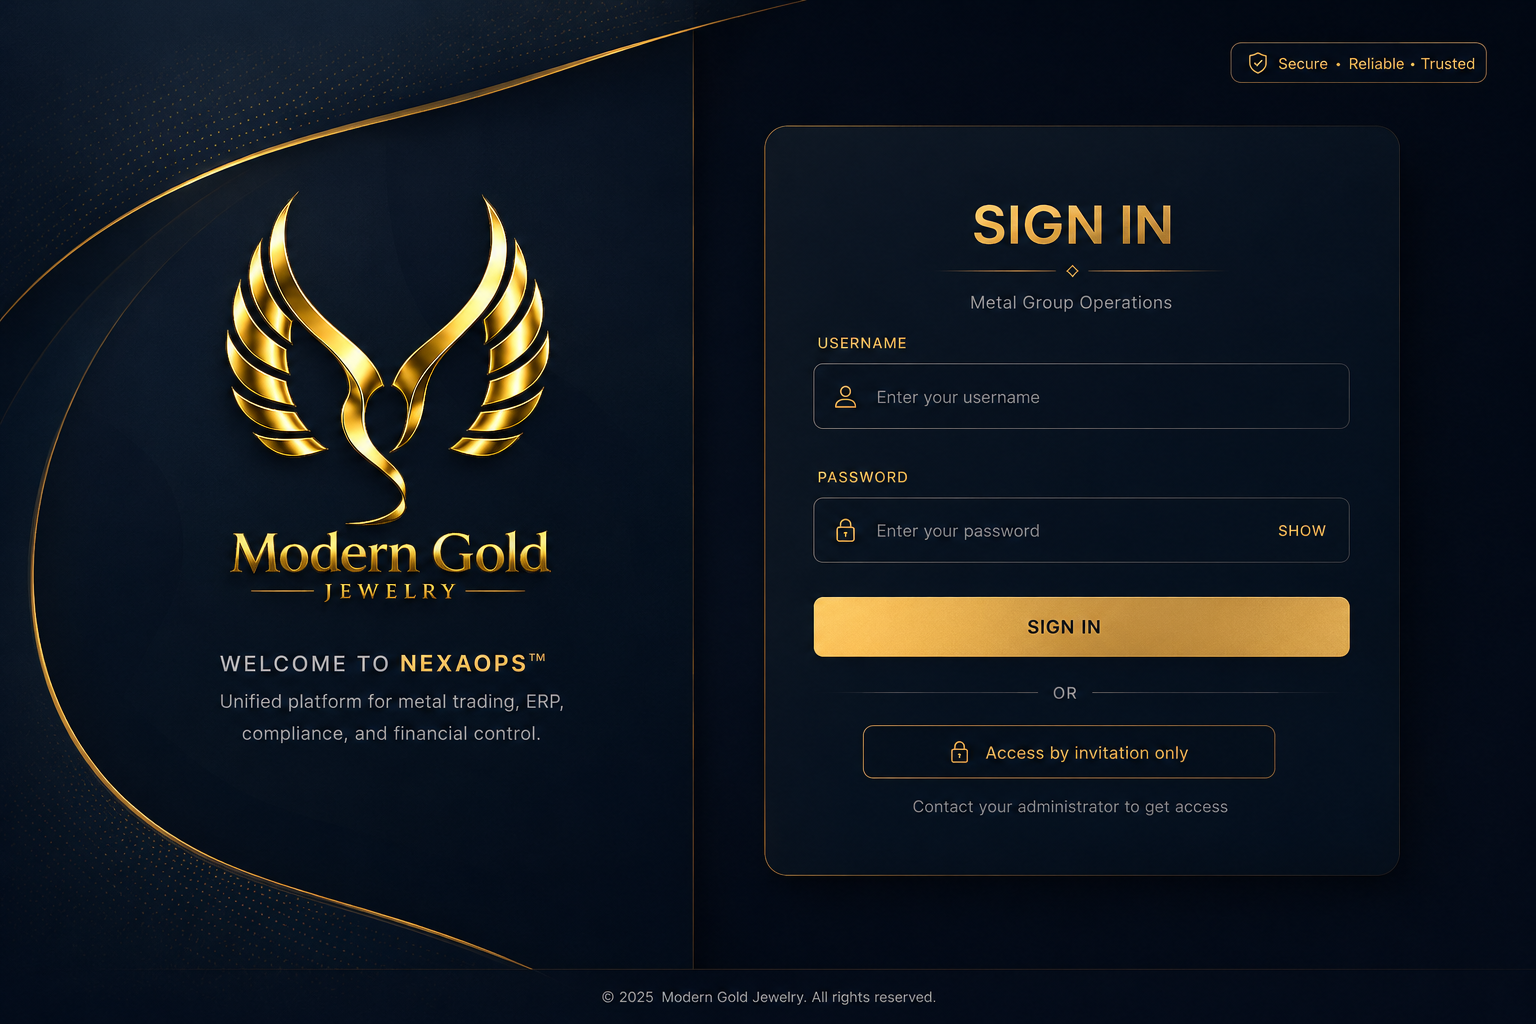
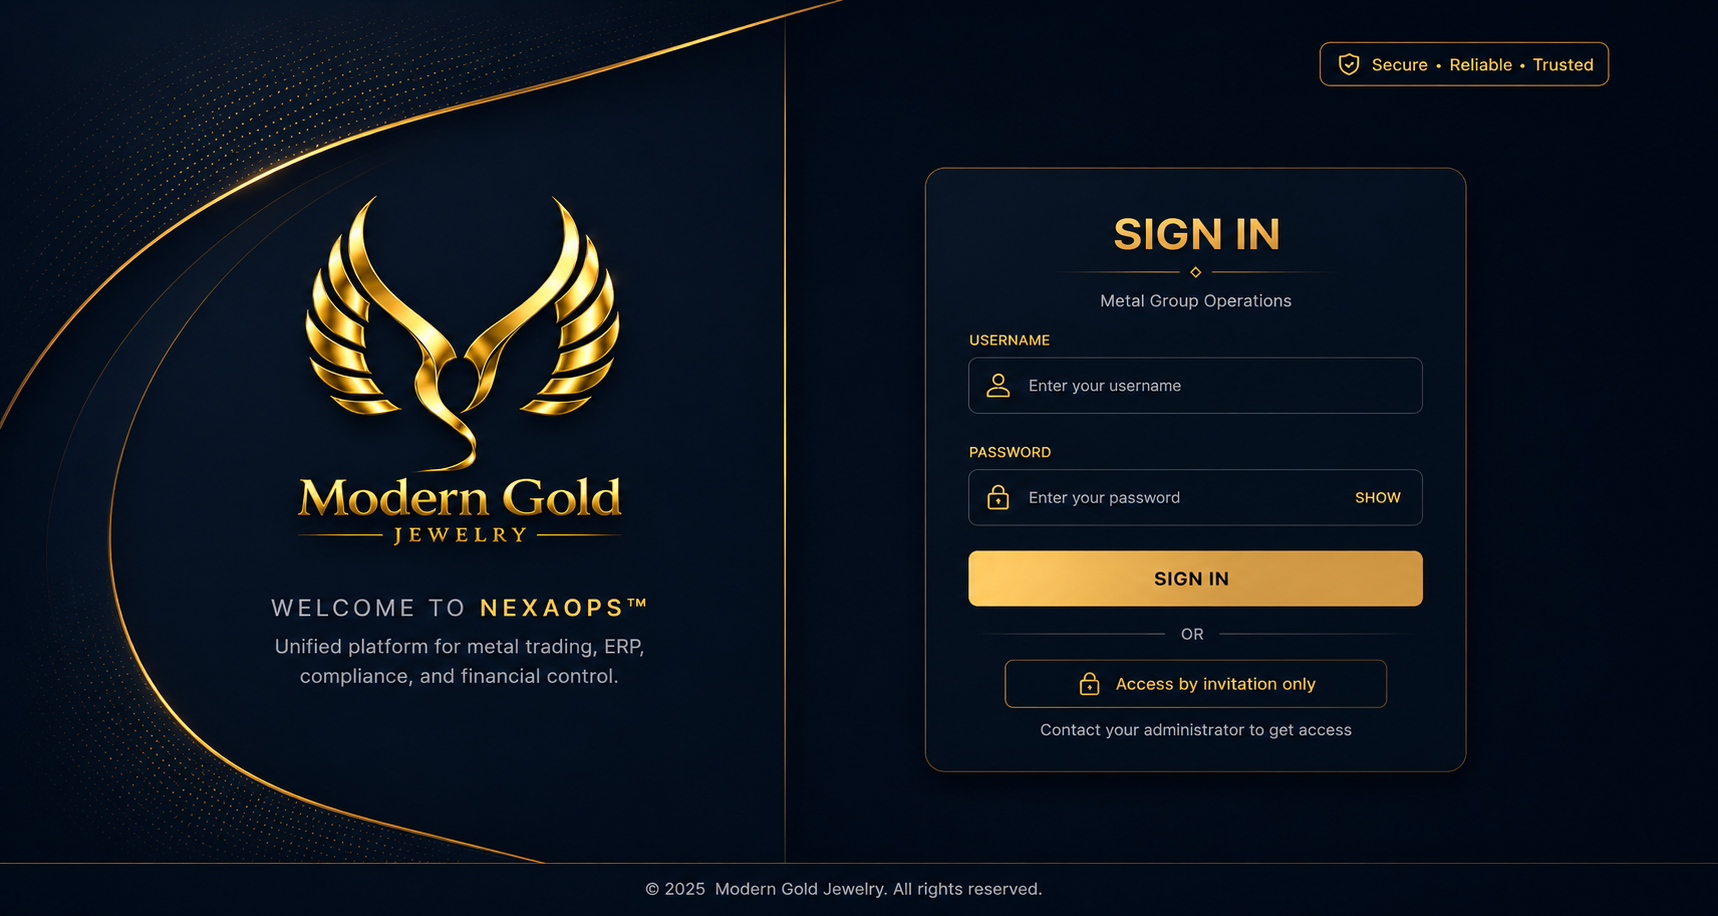
Update MG login and vendor attachments

diff --git a/frontend/src/pages/Login.jsx b/frontend/src/pages/Login.jsx
@@ -63,18 +63,21 @@ function MgLoginShell({
     return () => window.removeEventListener('resize', updateViewport)
   }, [])
 
-  const designWidth = 1600
-  const designHeight = 1000
-  const scale = Math.min(viewport.width / designWidth, viewport.height / designHeight)
-  const stageLeft = (viewport.width - designWidth * scale) / 2
-  const stageTop = (viewport.height - designHeight * scale) / 2
+  const designWidth = 1718
+  const designHeight = 916
+  const scaleX = viewport.width / designWidth
+  const scaleY = viewport.height / designHeight
+  const sx = (value) => value * scaleX
+  const sy = (value) => value * scaleY
 
   return (
     <div
       className="mg-login-shell"
       style={{
+        position: 'fixed',
+        inset: 0,
+        width: '100vw',
         height: '100vh',
-        position: 'relative',
         overflow: 'hidden',
         background:
           'radial-gradient(circle at 22% 42%, rgba(31, 54, 77, 0.62), transparent 26%), radial-gradient(circle at 78% 18%, rgba(25, 55, 86, 0.36), transparent 30%), linear-gradient(135deg, #0b1b2b 0%, #020814 58%, #00040b 100%)',
@@ -86,15 +89,13 @@ function MgLoginShell({
         className="mg-login-stage"
         style={{
           position: 'absolute',
-          left: stageLeft,
-          top: stageTop,
-          width: designWidth,
-          height: designHeight,
-          transform: `scale(${scale})`,
-          transformOrigin: 'top left',
+          inset: 0,
+          width: '100%',
+          height: '100%',
           overflow: 'hidden',
           backgroundImage: 'url(/images/mg-login-reference.png)',
           backgroundSize: '100% 100%',
+          backgroundPosition: 'center center',
           backgroundRepeat: 'no-repeat',
         }}
       >
@@ -103,10 +104,10 @@ function MgLoginShell({
             <div
               style={{
                 position: 'absolute',
-                left: 847,
-                top: 345,
-                width: 558,
-                minHeight: 30,
+                left: sx(968),
+                top: sy(318),
+                width: sx(455),
+                minHeight: sy(30),
                 border: '1px solid rgba(248,113,113,0.55)',
                 background: 'rgba(127,29,29,0.72)',
                 color: '#FECACA',
@@ -123,10 +124,10 @@ function MgLoginShell({
               aria-hidden="true"
               style={{
                 ...valueMaskStyle,
-                left: 907,
-                top: 368,
-                width: 345,
-                height: 44,
+                left: sx(1026),
+                top: sy(372),
+                width: sx(300),
+                height: sy(34),
               }}
             />
           )}
@@ -137,8 +138,12 @@ function MgLoginShell({
             placeholder=""
             style={{
               ...inputStyle,
-              left: 912,
-              top: 374,
+              width: sx(300),
+              height: sy(34),
+              left: sx(1028),
+              top: sy(372),
+              fontSize: sx(16),
+              lineHeight: `${sy(34)}px`,
             }}
             autoFocus
             autoComplete="username"
@@ -150,10 +155,10 @@ function MgLoginShell({
               aria-hidden="true"
               style={{
                 ...valueMaskStyle,
-                left: 904,
-                top: 500,
-                width: 372,
-                height: 52,
+                left: sx(1026),
+                top: sy(484),
+                width: sx(300),
+                height: sy(34),
               }}
             />
           )}
@@ -164,11 +169,12 @@ function MgLoginShell({
             placeholder=""
             style={{
               ...inputStyle,
-              width: 330,
-              left: 912,
-              top: 504,
-              height: 44,
-              lineHeight: '44px',
+              width: sx(300),
+              left: sx(1028),
+              top: sy(484),
+              height: sy(34),
+              fontSize: sx(16),
+              lineHeight: `${sy(34)}px`,
             }}
             autoComplete="current-password"
             disabled={loading}
@@ -179,10 +185,10 @@ function MgLoginShell({
             onClick={() => setShowPass(!showPass)}
             style={{
               position: 'absolute',
-              left: 1290,
-              top: 520,
-              width: 112,
-              height: 69,
+              left: sx(1344),
+              top: sy(468),
+              width: sx(82),
+              height: sy(60),
               border: 0,
               background: 'transparent',
               color: 'transparent',
@@ -195,10 +201,10 @@ function MgLoginShell({
             disabled={loading}
             style={{
               position: 'absolute',
-              left: 847,
-              top: 623,
-              width: 558,
-              height: 63,
+              left: sx(968),
+              top: sy(551),
+              width: sx(455),
+              height: sy(55),
               border: 0,
               borderRadius: 9,
               background: loading ? 'rgba(255,209,90,0.18)' : 'transparent',
@@ -214,15 +220,37 @@ function MgLoginShell({
             aria-hidden="true"
             style={{
               position: 'absolute',
-              left: 690,
-              top: 651,
-              width: 26,
-              height: 20,
+              left: sx(625),
+              top: sy(596),
+              width: sx(24),
+              height: sy(18),
               background: 'rgba(5, 17, 30, 0.96)',
               borderRadius: 3,
               pointerEvents: 'none',
+              zIndex: 3,
             }}
           />
+          <div
+            aria-hidden="true"
+            style={{
+              position: 'absolute',
+              left: sx(610),
+              top: sy(872),
+              width: sx(500),
+              height: sy(32),
+              display: 'flex',
+              alignItems: 'center',
+              justifyContent: 'center',
+              background: 'rgba(3, 12, 24, 0.94)',
+              color: '#9CA3AF',
+              fontSize: sx(14),
+              letterSpacing: 0,
+              pointerEvents: 'none',
+              zIndex: 3,
+            }}
+          >
+            © 2025 Moder Gold Jewerly. All rights reserved by loopc company
+          </div>
         </form>
       </div>
 
@@ -436,7 +464,6 @@ function Login() {
               <div className="text-[26px] leading-none font-extrabold tracking-tight mb-3">
                 <span style={{ color: '#7bc3ff' }}>Nexa</span>
                 <span style={{ color: '#0f172a' }}>Ops</span>
-                <span style={{ color: '#0f172a', fontSize: '15px', verticalAlign: 'super', marginLeft: 2 }}>TM</span>
               </div>
               <p className="text-[14px] leading-8 text-white/82 max-w-[290px]">
                 Unified platform for metal trading, ERP,

diff --git a/frontend/src/components/tabs/erp/tabs/ERPVendorsTab.jsx b/frontend/src/components/tabs/erp/tabs/ERPVendorsTab.jsx
@@ -34,6 +34,7 @@ export default function ERPVendorsTab({
   setVendorWorkflowReason,
   handleVendorWorkflowStatus,
   handleAddVendorDocument,
+  handleVendorTableDocumentUpload,
   setVendorDocumentForm,
   handleDeleteVendorDocument,
 }) {
@@ -347,13 +348,30 @@ export default function ERPVendorsTab({
                       <td style={{ padding: '0.6rem', color: overdue > 0 ? '#DC2626' : C.ink }}>{formatDate(v.nextDue?.dueDate)}</td>
                       <td style={{ padding: '0.6rem', textAlign: 'right', fontWeight: '700', color: C.ink }}>{formatMoney(payDue || v.outstanding || 0, currency)}</td>
                       <td style={{ padding: '0.6rem' }}>
-                        {latestDoc ? (
-                          <a href={getVendorDocumentUrl(latestDoc, v._id)} target="_blank" rel="noreferrer" style={{ color: '#1D4ED8', fontWeight: '700', textDecoration: 'none' }}>
-                            {(v.documents || []).length} file{(v.documents || []).length === 1 ? '' : 's'}
-                          </a>
-                        ) : (
-                          <span style={{ color: C.inkSoft }}>No file</span>
-                        )}
+                        <div style={{ display: 'flex', flexDirection: 'column', alignItems: 'flex-start', gap: '0.35rem', minWidth: '82px' }}>
+                          {latestDoc ? (
+                            <a href={getVendorDocumentUrl(latestDoc, v._id)} target="_blank" rel="noreferrer" style={{ color: '#1D4ED8', fontWeight: '700', textDecoration: 'none', fontSize: '0.78rem' }}>
+                              {(v.documents || []).length} file{(v.documents || []).length === 1 ? '' : 's'}
+                            </a>
+                          ) : (
+                            <span style={{ color: C.inkSoft }}>No file</span>
+                          )}
+                          {vendorPermissions.canUpdateOperational && (
+                            <label style={{ padding: '0.28rem 0.55rem', background: '#E0F2FE', border: '1px solid #7DD3FC', borderRadius: '0.3rem', color: '#075985', cursor: saving ? 'not-allowed' : 'pointer', fontSize: '0.75rem', fontWeight: '700', opacity: saving ? 0.6 : 1 }}>
+                              Upload
+                              <input
+                                type="file"
+                                disabled={saving}
+                                onChange={(e) => {
+                                  const file = e.target.files?.[0]
+                                  if (file) handleVendorTableDocumentUpload(v, file)
+                                  e.target.value = ''
+                                }}
+                                style={{ display: 'none' }}
+                              />
+                            </label>
+                          )}
+                        </div>
                       </td>
                       <td style={{ padding: '0.6rem', textAlign: 'center' }}>
                         <div style={{ display: 'flex', gap: '0.35rem', justifyContent: 'center', flexWrap: 'wrap' }}>

diff --git a/frontend/src/components/tabs/ERPTab.jsx b/frontend/src/components/tabs/ERPTab.jsx
@@ -2329,6 +2329,33 @@ function ERPTab({ focusTab, onNavigateMain, onMetalRatesChange }) {
     }
   }
 
+  const handleVendorTableDocumentUpload = async (vendor, file) => {
+    if (!vendor?._id || !file) return
+    if (!vendorPermissions.canUpdateOperational) {
+      setError('You are not allowed to upload vendor documents')
+      return
+    }
+    try {
+      setSaving(true)
+      await erpAccountingAPI.uploadVendorDocument(token, vendor._id, {
+        docType: 'other',
+        title: file.name || 'Vendor attachment',
+        status: 'active',
+        verified: false,
+      }, file)
+      await Promise.all([
+        loadVendors(vendorFilters),
+        loadVendorComplianceSummary(),
+        selectedVendorId === vendor._id ? loadVendorDetails(vendor._id) : Promise.resolve(),
+      ])
+      showNotification('✅ Vendor attachment uploaded')
+    } catch (e) {
+      setError(e.response?.data?.message || 'Failed to upload vendor attachment')
+    } finally {
+      setSaving(false)
+    }
+  }
+
   const handleDeleteVendorDocument = async (documentId) => {
     if (!selectedVendorId) return
     if (!window.confirm('Delete this vendor document?')) return
@@ -7046,6 +7073,7 @@ function ERPTab({ focusTab, onNavigateMain, onMetalRatesChange }) {
         setVendorWorkflowReason={setVendorWorkflowReason}
         handleVendorWorkflowStatus={handleVendorWorkflowStatus}
         handleAddVendorDocument={handleAddVendorDocument}
+        handleVendorTableDocumentUpload={handleVendorTableDocumentUpload}
         setVendorDocumentForm={setVendorDocumentForm}
         handleDeleteVendorDocument={handleDeleteVendorDocument}
       />